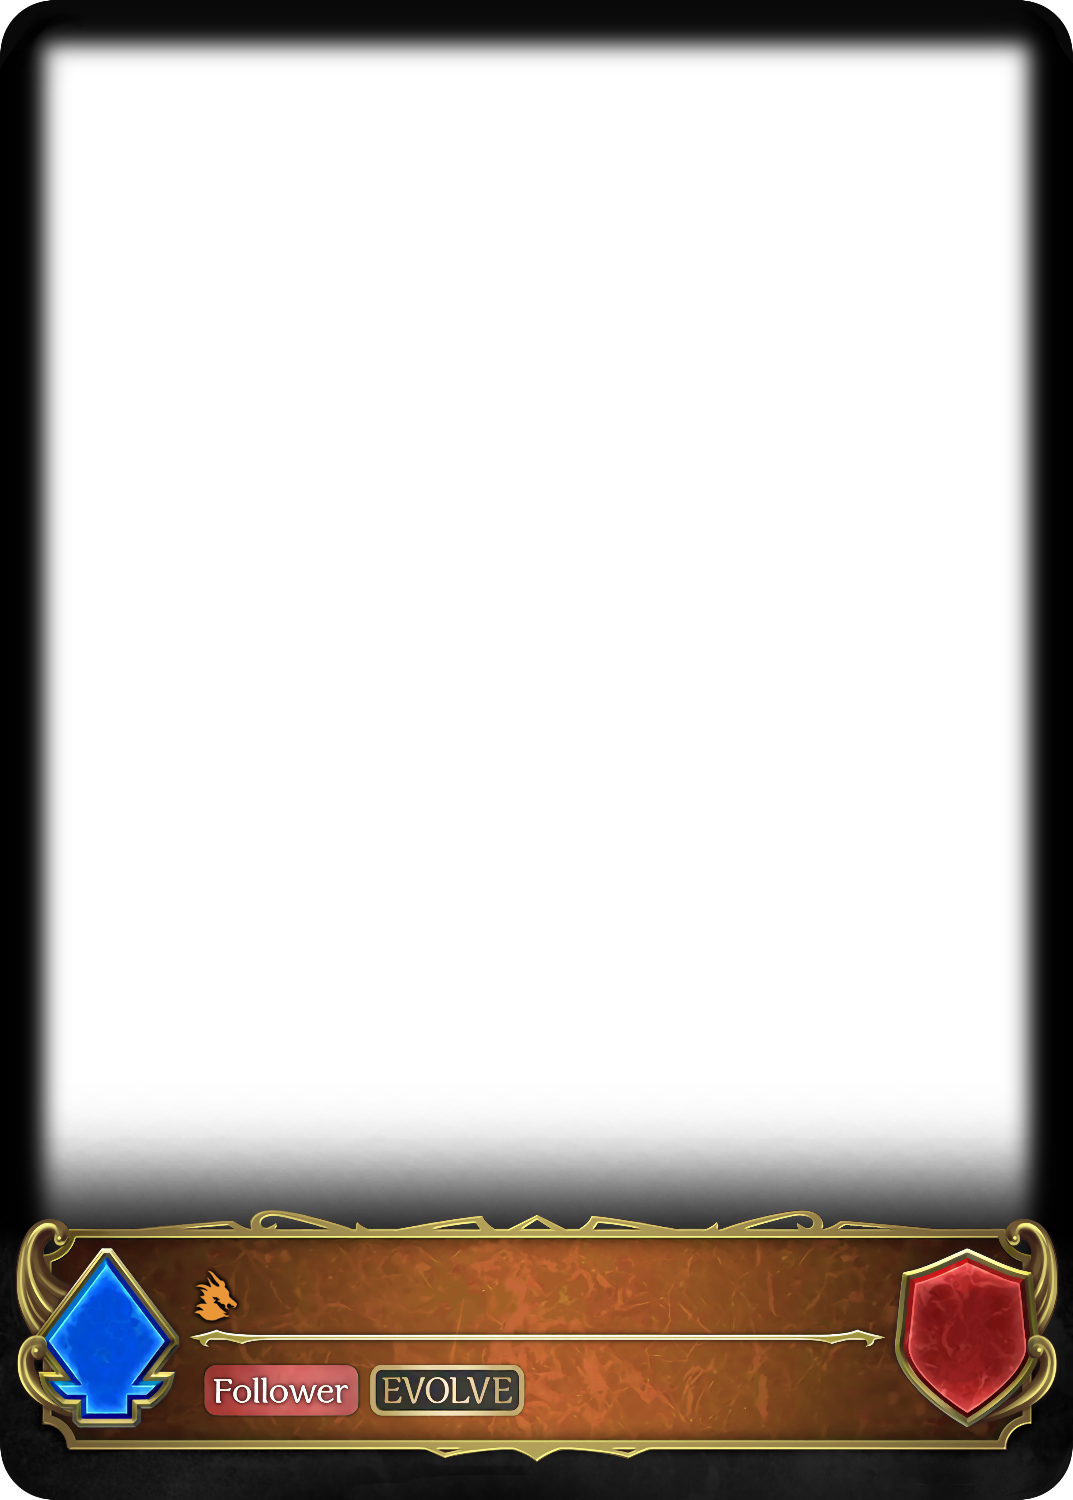
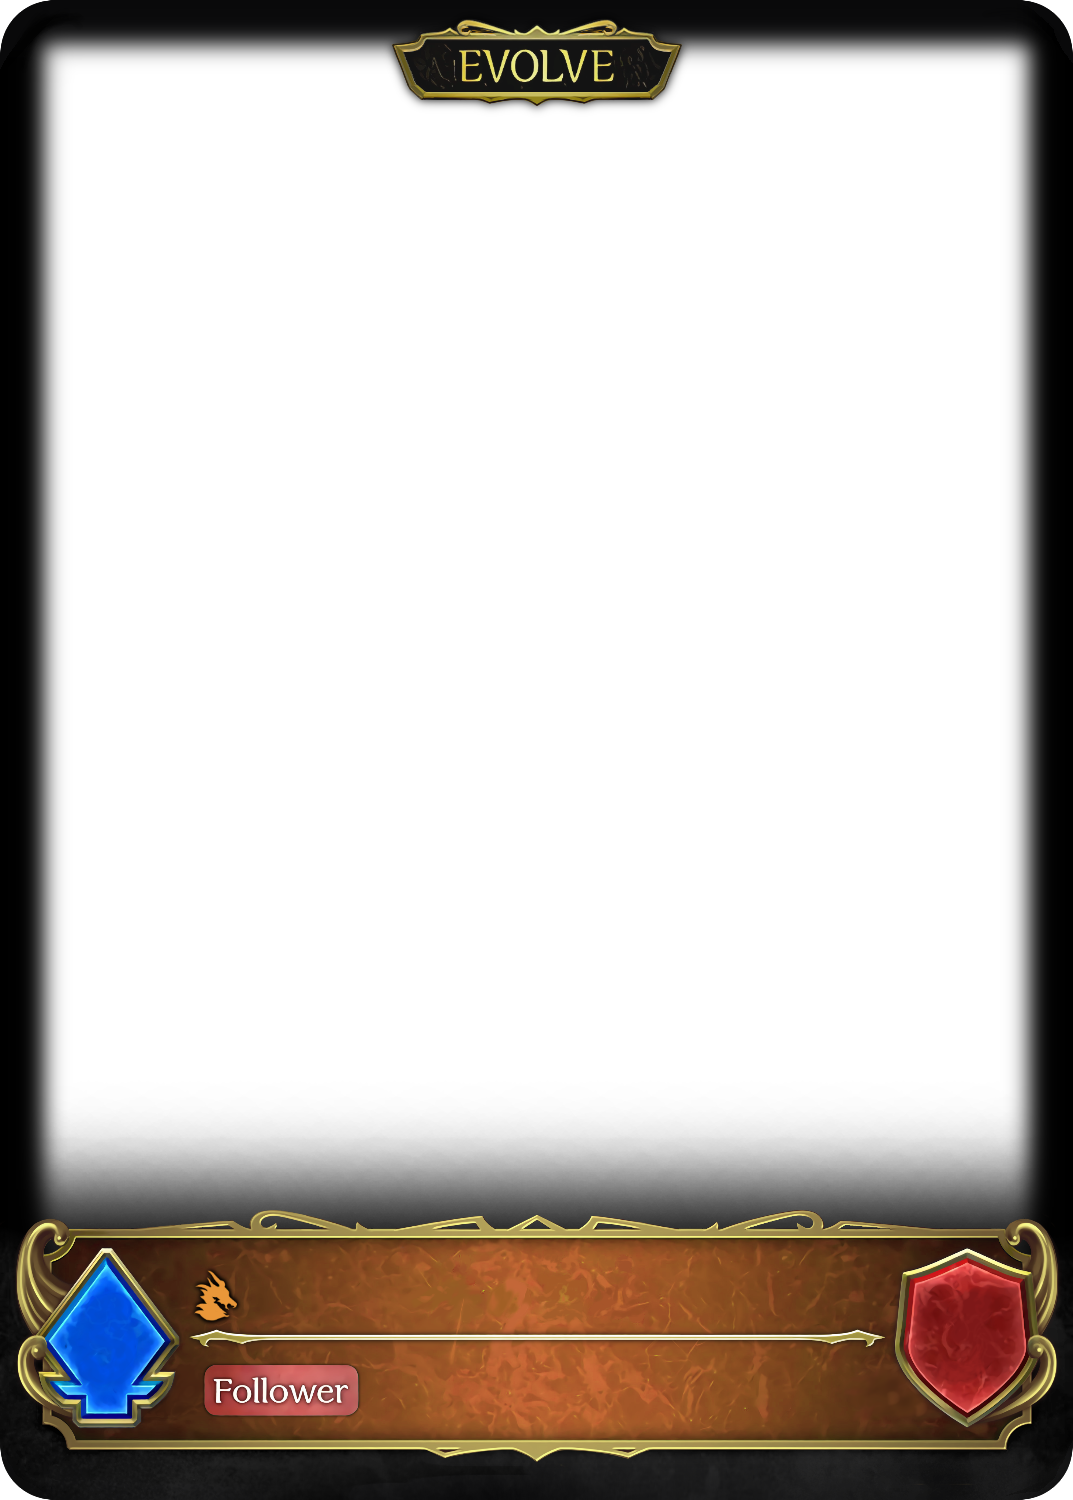
change evo frame

Changed region(s): [[0.3691, 0.0, 0.6459, 0.092], [0.3383, 0.8893, 0.4921, 0.9507]]

diff --git a/src/CardDrawer.js b/src/CardDrawer.js
@@ -224,7 +224,7 @@ export default class CardDrawer {
         let offset = 0;
         if (getIsNoStatus(this.data)) offset += this.config.race.noStatusOffset;
         if (isToken(this.data)) offset += this.config.race.tokenOffset;
-        if (isEvo(this.data)) offset += this.config.race.evoOffset;
+        if (isEvo(this.data) && isUR(this.data)) offset += this.config.race.evoOffset;
         this.drawText(this.data.race, {
             ...this.config.race,
             position: [left + offset, top, width],

diff --git a/examples/index.html b/examples/index.html
@@ -19,10 +19,10 @@
             desc: "/quick\n"
                 + "/evo/cost2:お互いのリーダーに1ダメージ。\n"
                 + "お互いの場にフォレストバット1体を出す。",
-            craft: "Neutral",
+            craft: "Nightmare",
             cardType: "Follower",
             imageSrc: "https://svgdb.me/assets/fullart/1086340100.png",
-            cost: 4,
+            cost: 33,
             attack: 33,
             defense: 33,
             rarity: "UR",

diff --git a/src/config/config.js b/src/config/config.js
@@ -45,7 +45,7 @@ const defaultConfig = {
     },
     cost: {
         color: "#FFF",
-        fontSize: 58,
+        fontSize: 52,
         position: [54, 58, 64],
         shadowBlur: 6,
         shadowLine: 4,
